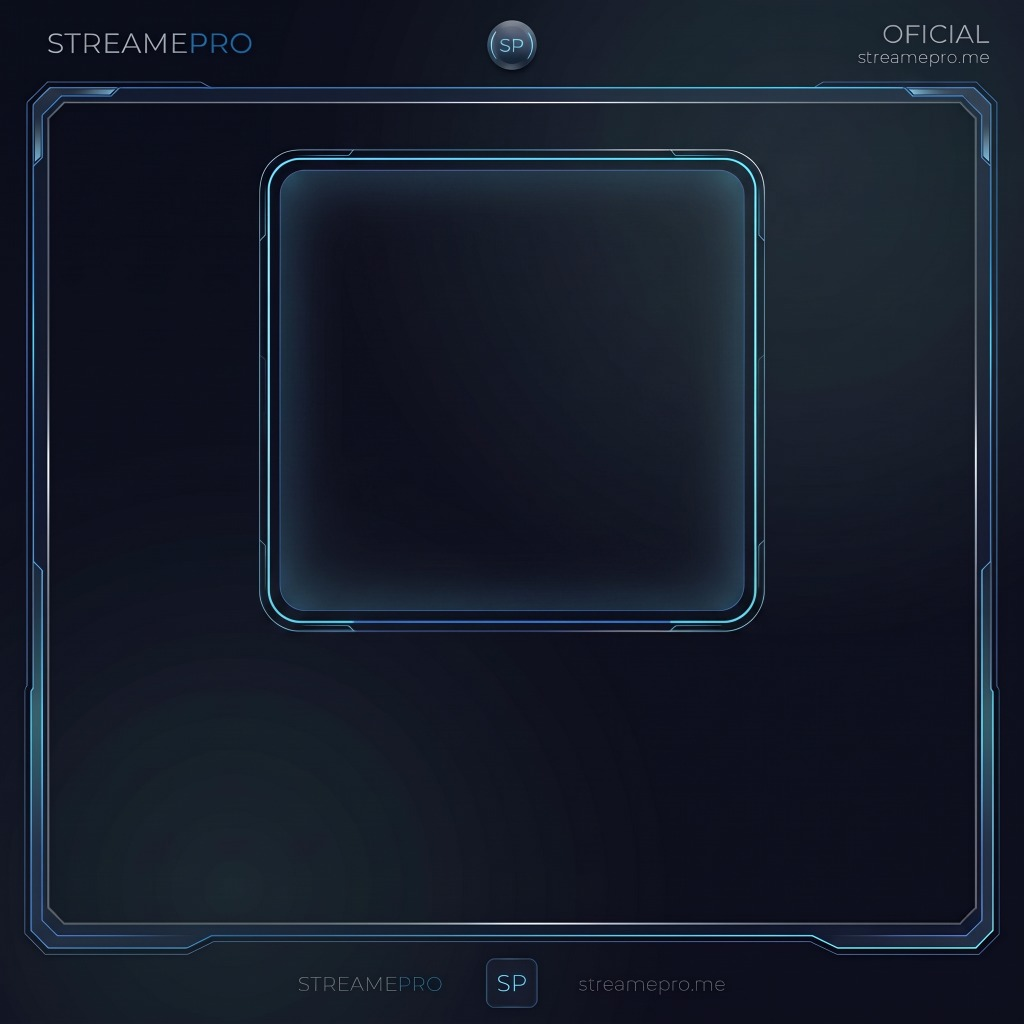
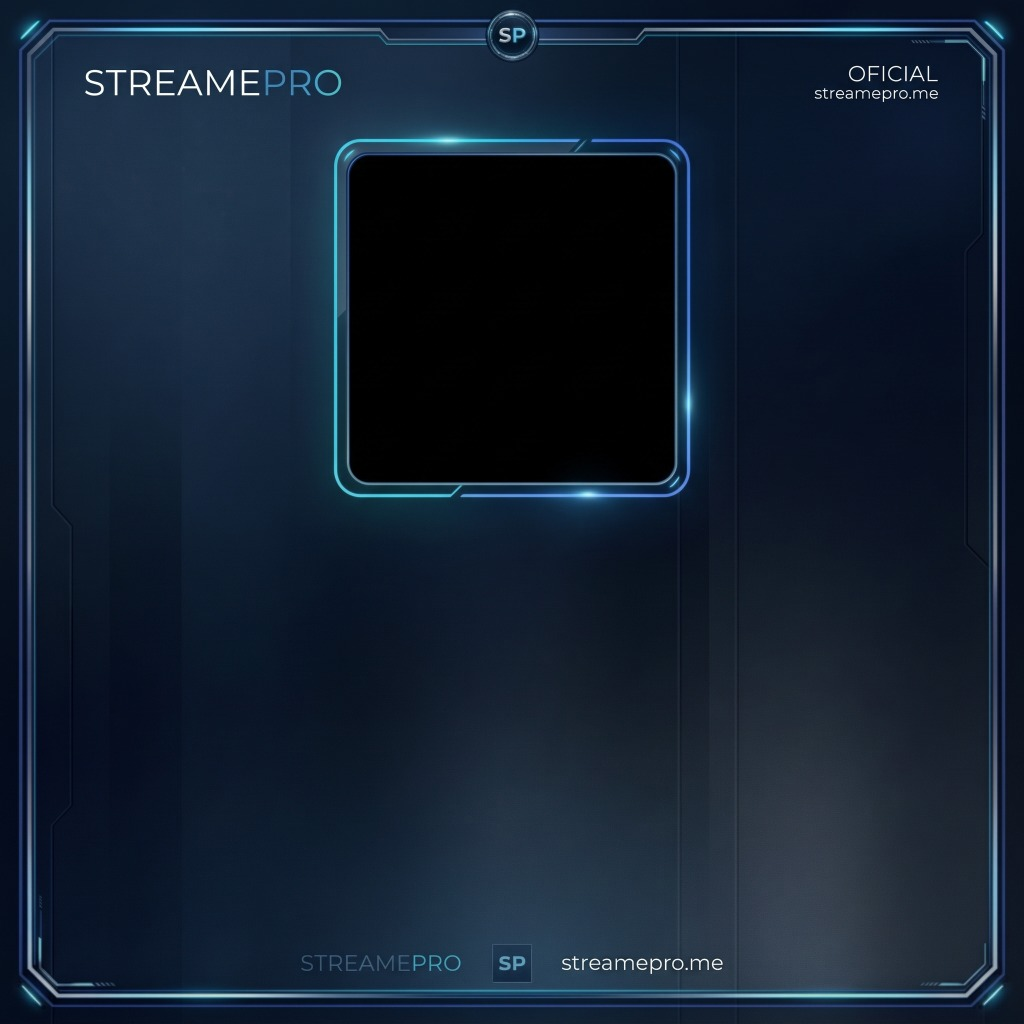
feat(flyer): integrate new 1080x1080 square design template and recalibrate coordinates

diff --git a/src/components/FlyerGeneratorModal.vue b/src/components/FlyerGeneratorModal.vue
@@ -645,12 +645,12 @@ function renderCanvasFlyerBlob() {
           const imgEl = await loadFlyerImageElement(productImageCORS.value)
 
           // Marco interno exacto del rectángulo
-          const pad = 8
+          const pad = (visorW < 450) ? 14 : 8
           const innerX = visorX + pad
           const innerY = visorY + pad
           const innerW = visorW - pad * 2
           const innerH = visorH - pad * 2
-          const cornerR = Math.min(26, innerW * 0.06)
+          const cornerR = Math.min(26, innerW * 0.065)
 
           ctx.save()
           roundRect(ctx, innerX, innerY, innerW, innerH, cornerR, false, false)
@@ -695,12 +695,12 @@ function renderCanvasFlyerBlob() {
           // Combos streaming: Tarjetas translúcidas futuristas encajadas en el rectángulo
           const services = (selectedPackage.value?.services || []).slice(0, 3)
           if (services.length > 0) {
-            const pad = 10
+            const pad = (visorW < 450) ? 8 : 10
             const innerX = visorX + pad
             const innerY = visorY + pad
             const innerW = visorW - pad * 2
             const innerH = visorH - pad * 2
-            const gap = 12
+            const gap = (visorW < 450) ? 8 : 12
             const cardW = (innerW - (services.length - 1) * gap) / services.length
             const cardH = innerH
 
@@ -743,7 +743,7 @@ function renderCanvasFlyerBlob() {
           // Streaming Individual: Emblema Holográfico de Marca perfectamente proporcionado
           const platStyle = getPlatformCyberStyle(selectedPlatform.value)
 
-          const shieldSize = Math.min(visorH * 0.42, 140)
+          const shieldSize = Math.min(visorH * 0.38, 120)
           const shieldY = centerY - visorH * 0.12
 
           ctx.shadowColor = platStyle.glow
@@ -1010,30 +1010,32 @@ function renderCanvasFlyerBlob() {
 
         } else {
           // ================= SQUARE (1080 x 1080, 1:1) =================
-          // Visor superior exacto: X=280, Y=155, W=520, H=480
-          await drawVisorHeroContent(ctx, 280, 155, 520, 480)
+          // Visor superior exacto: X=353, Y=148, W=374, H=376
+          await drawVisorHeroContent(ctx, 353, 148, 374, 376)
 
-          // Contenido estrictamente dentro del cuadrante (Y=645..970)
-          drawCyberBadge(ctx, width / 2, 645, 36, 820, true)
+          // Contenido estrictamente dentro del cuadrante (Y=545..940)
+          drawCyberBadge(ctx, width / 2, 545, 42, 800, false)
 
           ctx.textAlign = 'center'
-          ctx.font = '900 27px -apple-system, BlinkMacSystemFont, "Segoe UI", Roboto, sans-serif'
+          ctx.font = '900 32px -apple-system, BlinkMacSystemFont, "Segoe UI", Roboto, sans-serif'
           ctx.fillStyle = '#ffffff'
           ctx.shadowColor = 'rgba(0, 0, 0, 0.8)'
-          ctx.shadowBlur = 8
-          const titleLines = wrapText(displayTitle.value, 34).slice(0, 2)
-          titleLines.forEach((tl, i) => ctx.fillText(tl, width / 2, 702 + i * 32))
+          ctx.shadowBlur = 10
+          const titleLines = wrapText(displayTitle.value, 32).slice(0, 2)
+          titleLines.forEach((tl, i) => ctx.fillText(tl, width / 2, 622 + i * 36))
           ctx.shadowBlur = 0
-          const subY = 702 + titleLines.length * 32 + 4
+          const subY = 622 + titleLines.length * 36 + 4
 
-          ctx.font = 'bold 15px sans-serif'
+          ctx.font = 'bold 18px sans-serif'
           ctx.fillStyle = '#38bdf8'
-          ctx.fillText(displaySubtitle.value.length > 46 ? displaySubtitle.value.slice(0, 44) + '...' : displaySubtitle.value, width / 2, subY)
+          ctx.fillText(displaySubtitle.value.length > 48 ? displaySubtitle.value.slice(0, 46) + '...' : displaySubtitle.value, width / 2, subY)
 
-          const pCardY = subY + 12
-          drawCyberPriceCard(ctx, 130, pCardY, 820, 115, true)
+          const pCardY = subY + 16
+          drawCyberPriceCard(ctx, 130, pCardY, 820, 130, true)
 
-          drawCyberBullets(ctx, 160, pCardY + 115 + 24, 34, 2, true)
+          const bulletsY = pCardY + 130 + 20
+          const numBullets = titleLines.length > 1 ? 2 : 3
+          drawCyberBullets(ctx, 150, bulletsY, 34, numBullets, true)
         }
 
         canvas.toBlob((blob) => {
@@ -2251,7 +2253,7 @@ const shareToWhatsAppStatus = () => {
               <!-- 1.3 SQUARE (1:1) -->
               <div v-else-if="flyerFormat === 'square'" class="relative w-full h-full">
                 <!-- Visor Window -->
-                <div class="absolute top-[14.4%] left-[25.9%] w-[48.1%] h-[44.4%] flex items-center justify-center p-1 z-10">
+                <div class="absolute top-[13.7%] left-[32.7%] w-[34.6%] h-[34.8%] flex items-center justify-center p-1 z-10">
                   <div v-if="flyerProductType === 'physical'" class="w-full h-full bg-white rounded-xl flex items-center justify-center p-2 shadow-lg border border-cyan-400/50 overflow-hidden relative">
                     <img :src="productImageCORS || selectedPhysicalProduct?.image" :alt="displayTitle" class="w-full h-full object-contain filter drop-shadow-md">
                   </div>
@@ -2262,7 +2264,7 @@ const shareToWhatsAppStatus = () => {
                     </div>
                   </div>
                   <div v-else class="flex flex-col items-center justify-center text-center">
-                    <div class="w-9 h-9 rounded-xl bg-slate-950/90 border border-cyan-400/50 flex items-center justify-center shadow">
+                    <div class="w-10 h-10 rounded-xl bg-slate-950/90 border border-cyan-400/50 flex items-center justify-center shadow">
                       <span class="text-xl drop-shadow">{{ currentPlatformIcon }}</span>
                     </div>
                     <span class="font-black text-white text-[10px] uppercase tracking-wider mt-0.5">{{ selectedPlatform }}</span>
@@ -2270,32 +2272,34 @@ const shareToWhatsAppStatus = () => {
                   </div>
                 </div>
 
-                <!-- Contenido Inferior (Dentro del cuadrante Y=645..970) -->
-                <div class="absolute top-[62.5%] bottom-[3.5%] left-[11%] right-[11%] flex flex-col justify-between items-center text-center z-10 py-0.5">
-                  <div class="bg-gradient-to-r from-amber-500 to-orange-500 text-slate-950 font-black px-2 py-0.2 rounded-full shadow text-[7px] uppercase">
+                <!-- Contenido Inferior (Dentro del cuadrante Y=545..950) -->
+                <div class="absolute top-[51.0%] bottom-[9.5%] left-[10%] right-[10%] flex flex-col justify-between items-center text-center z-10 py-1">
+                  <div class="bg-gradient-to-r from-amber-500 via-orange-500 to-amber-500 text-slate-950 font-black px-2.5 py-0.5 rounded-full shadow text-[8px] uppercase tracking-wider">
                     {{ headlineBadge }}
                   </div>
-                  <div class="space-y-0.2 w-full">
-                    <h2 class="font-black text-[10px] text-white line-clamp-1 leading-tight">{{ displayTitle }}</h2>
-                    <p class="font-bold text-cyan-300 text-[7px] font-mono truncate">{{ displaySubtitle }}</p>
+                  <div class="space-y-0.5 w-full">
+                    <h2 class="font-black text-xs tracking-tight leading-tight line-clamp-2 text-white">{{ displayTitle }}</h2>
+                    <p class="font-bold text-cyan-300 text-[8px] font-mono truncate">{{ displaySubtitle }}</p>
                   </div>
-                  <div class="w-full bg-slate-950/90 border border-cyan-400/30 rounded-lg py-0.5 px-2 shadow">
-                    <div v-if="displayOriginalPrice" class="flex items-center justify-center gap-1">
-                      <span class="text-slate-400 line-through text-[6px]">Antes: $${Number(displayOriginalPrice).toLocaleString()}</span>
+                  <div class="w-full bg-slate-950/90 border border-cyan-400/30 rounded-xl py-1 px-2.5 shadow">
+                    <div v-if="displayOriginalPrice" class="flex items-center justify-center gap-1 mb-0.5">
+                      <span class="text-slate-400 line-through text-[7px]">Antes: $${Number(displayOriginalPrice).toLocaleString()}</span>
                       <span v-if="calculatedDiscountPct" class="bg-emerald-500/20 text-emerald-300 font-black text-[6px] px-0.5 rounded">-${calculatedDiscountPct}%</span>
                     </div>
+                    <div v-else class="text-[6px] uppercase font-bold text-slate-400">PRECIO EXCLUSIVO</div>
                     <div class="flex items-baseline justify-center gap-0.5">
-                      <span class="text-[8px] font-black text-amber-400">$</span>
-                      <span class="font-black tracking-tight text-white font-mono text-xs">{{ displayPrice }}</span>
+                      <span class="text-[9px] font-black text-amber-400">$</span>
+                      <span class="font-black tracking-tight text-white font-mono text-sm sm:text-base">{{ displayPrice }}</span>
                       <span class="text-[6px] font-bold text-slate-400 font-mono">ARS</span>
                     </div>
-                    <div class="text-[5.5px] text-cyan-300 font-bold truncate">
-                      {{ flyerProductType === 'physical' ? '🚚 Envío a Todo el País' : '⚡ Entrega Inmediata · 100% Garantía' }}
+                    <div class="text-[6px] text-cyan-300 font-bold truncate">
+                      {{ flyerProductType === 'physical' ? '🚚 Envío a Todo el País · Garantía Oficial 100%' : '⚡ Entrega Inmediata · Garantía Oficial 100%' }}
                     </div>
                   </div>
-                  <div class="w-full text-left space-y-0 text-[7px] font-medium text-slate-200 px-1">
+                  <div class="w-full text-left space-y-0.5 text-[7.5px] font-medium text-slate-200 px-1">
                     <div class="flex items-center gap-1 truncate"><span class="text-cyan-400 font-bold">✓</span><span class="truncate">{{ bullet1 }}</span></div>
                     <div class="flex items-center gap-1 truncate"><span class="text-cyan-400 font-bold">✓</span><span class="truncate">{{ bullet2 }}</span></div>
+                    <div class="flex items-center gap-1 truncate"><span class="text-cyan-400 font-bold">✓</span><span class="truncate">{{ bullet3 }}</span></div>
                   </div>
                 </div>
               </div>
